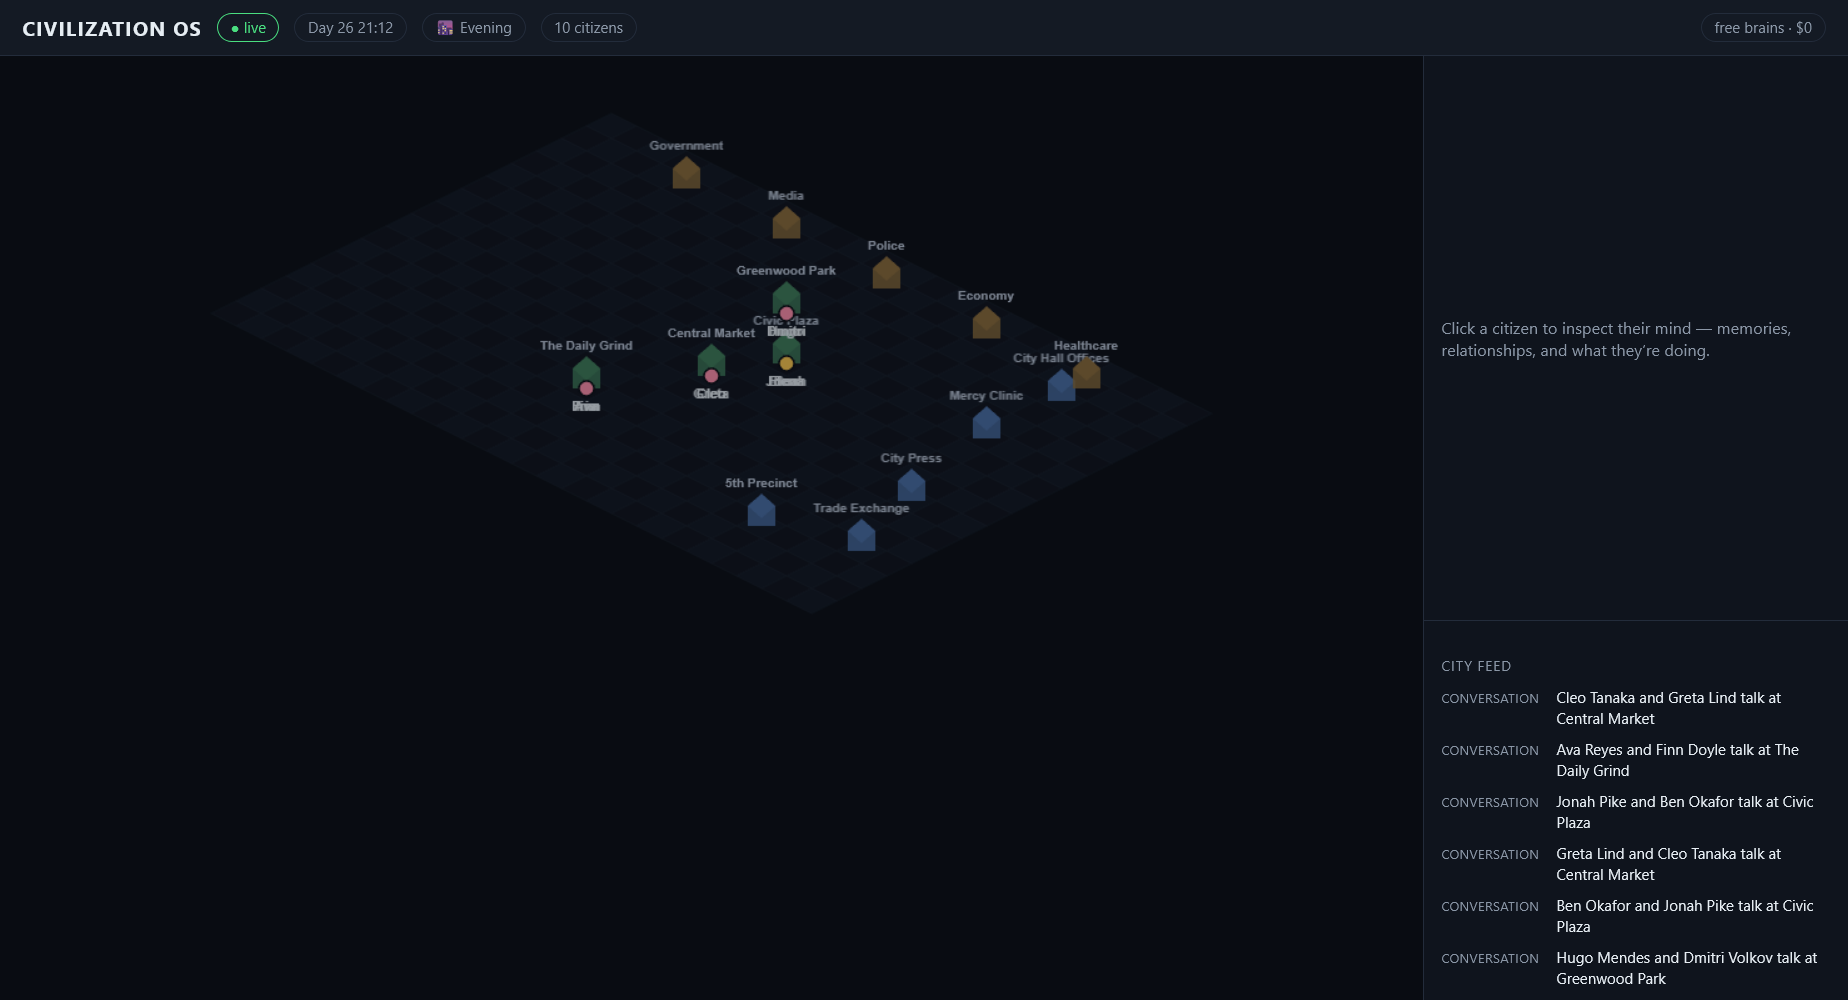
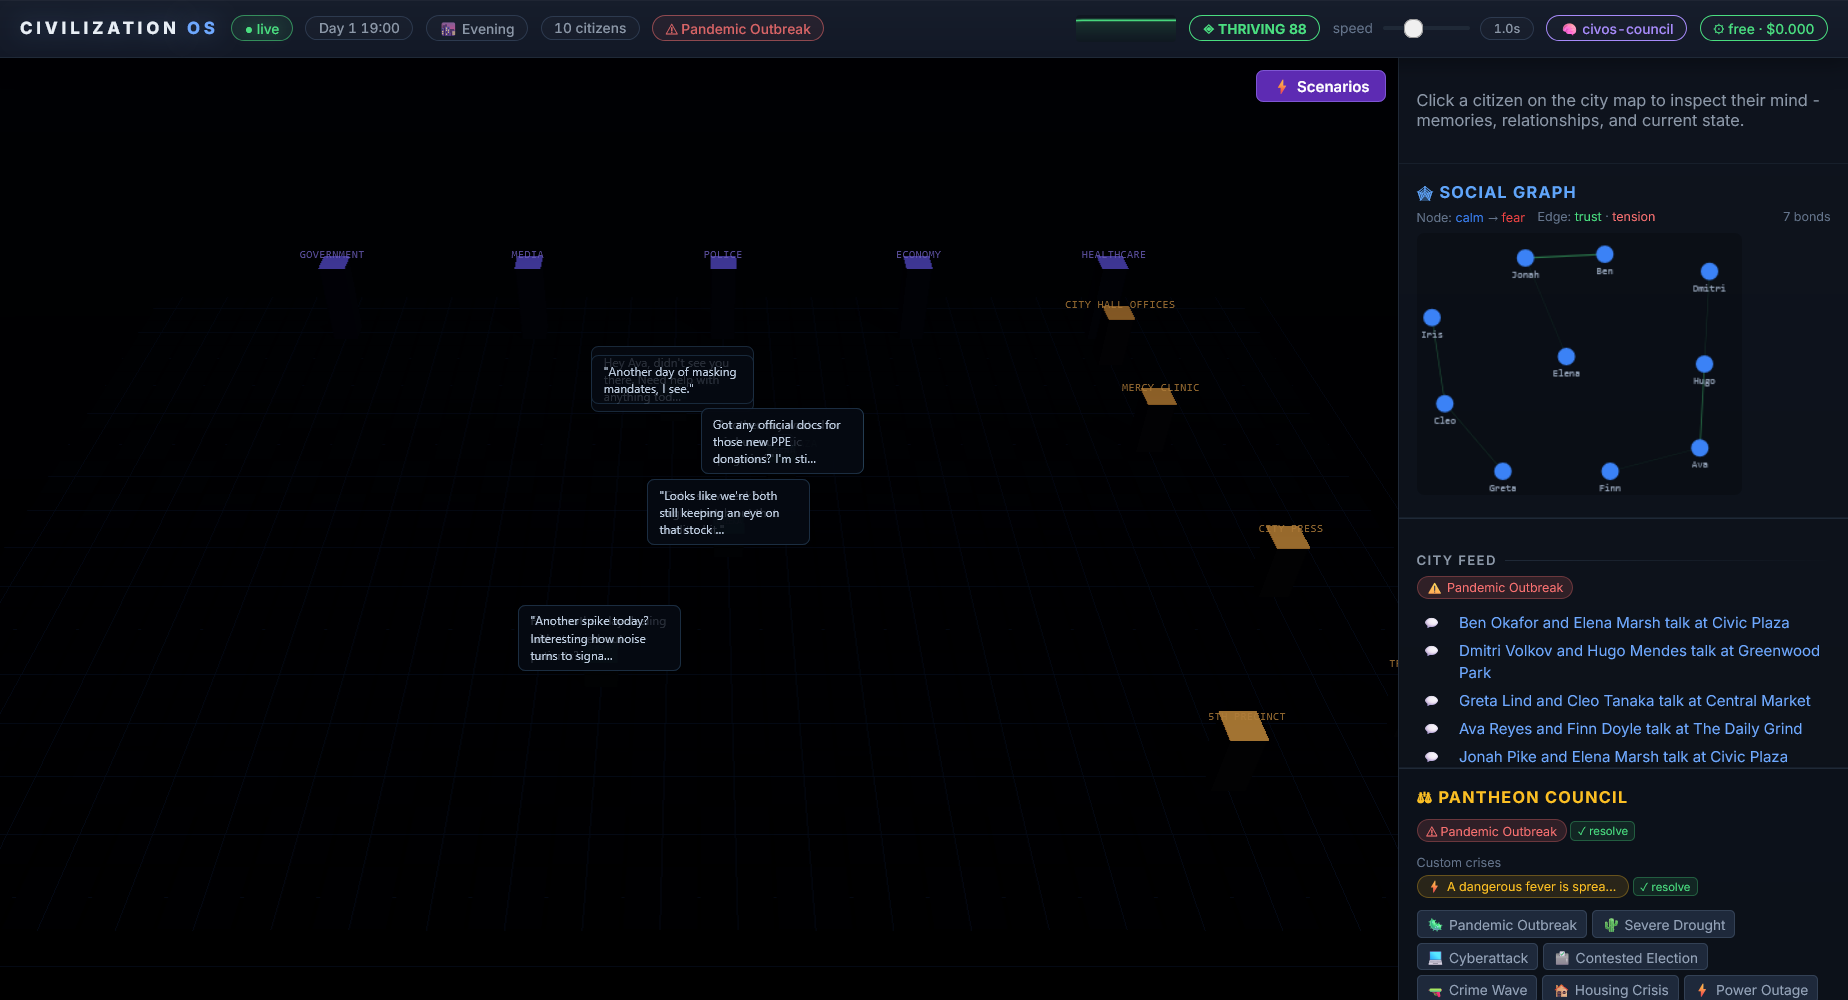
polish: refresh README screenshots to current 3D UI, purge em dashes, fix stale venv references
- docs/screenshots/city.png now shows the live Three.js city during a pandemic
  (old capture was the retired PixiJS 2D view); new council-rewind.png captures
  two live council verdicts in the Story Rewind
- em dashes replaced across remaining UI copy and HOW_TO_RUN.md
- HOW_TO_RUN.md venv path matches the README's .venv convention

diff --git a/web/src/panels/CouncilChamber.tsx b/web/src/panels/CouncilChamber.tsx
@@ -171,7 +171,7 @@ export default function CouncilChamber() {
   const liveId = activeDebateId && !isActiveComplete ? activeDebateId : null;
   const liveTurns = liveId ? activeTurns : [];
 
-  // Completed debates — newest first (Object.keys insertion order)
+  // Completed debates - newest first (Object.keys insertion order)
   const allDebateIds = Object.keys(debates);
   const completedIds = [...allDebateIds]
     .filter((id) => debates[id].some((t) => t.is_final))
@@ -421,7 +421,7 @@ export default function CouncilChamber() {
         {error && <div style={{ fontSize: 11, color: "#f87171" }}>Error: {error}</div>}
       </div>
 
-      {/* Live debate — expanded, auto-scrolls */}
+      {/* Live debate - expanded, auto-scrolls */}
       {liveId ? (
         <div style={{ maxHeight: 280, overflowY: "auto" }}>
           <div style={{ fontSize: 10, color: "#64748b", marginBottom: 8 }}>
@@ -436,7 +436,7 @@ export default function CouncilChamber() {
         </div>
       ) : null}
 
-      {/* Latest completed debate — collapsed card, click to expand */}
+      {/* Latest completed debate - collapsed card, click to expand */}
       {latestCompletedId && (
         <CompletedDebateCard
           turns={debates[latestCompletedId]}
@@ -447,7 +447,7 @@ export default function CouncilChamber() {
         />
       )}
 
-      {/* Older debates — hidden behind accordion */}
+      {/* Older debates - hidden behind accordion */}
       {olderIds.length > 0 && (
         <div>
           <button

diff --git a/web/src/components/Onboarding.tsx b/web/src/components/Onboarding.tsx
@@ -3,7 +3,7 @@ import { useState } from "react";
 const STEPS = [
   {
     title: "Welcome to CivilizationOS",
-    body: "A living city of 10 AI citizens governed by 5 institutional councils. Watch society evolve — or break it yourself by injecting crises.",
+    body: "A living city of 10 AI citizens governed by 5 institutional councils. Watch society evolve - or break it yourself by injecting crises.",
     icon: "🏙",
   },
   {
@@ -13,12 +13,12 @@ const STEPS = [
   },
   {
     title: "The PANTHEON Council",
-    body: "Scroll the right sidebar to ⚖ PANTHEON COUNCIL. Pick a crisis preset (Pandemic, Drought, etc.) and click Inject. Five AI specialists — Historian, Strategist, Skeptic, Predictor, Synthesizer — debate live.",
+    body: "Scroll the right sidebar to ⚖ PANTHEON COUNCIL. Pick a crisis preset (Pandemic, Drought, etc.) and click Inject. Five AI specialists - Historian, Strategist, Skeptic, Predictor, Synthesizer - debate live.",
     icon: "⚖",
   },
   {
     title: "TCMF: Novel RAG",
-    body: "Each council debate is grounded by Temporal-Causal Memory Fusion — a retrieval system that fuses citizen episodic memories with the society-wide causal graph. The Historian literally argues from precedent.",
+    body: "Each council debate is grounded by Temporal-Causal Memory Fusion - a retrieval system that fuses citizen episodic memories with the society-wide causal graph. The Historian literally argues from precedent.",
     icon: "🧠",
   },
   {

diff --git a/web/src/city/CityStage.tsx b/web/src/city/CityStage.tsx
@@ -177,7 +177,7 @@ export default function CityStage() {
         if (crisisCount > prevCrisisCount) crisisFlashUntil = performance.now() + 1000;
         prevCrisisCount = crisisCount;
 
-        // Fear heatmap — semi-transparent tile overlays at each location
+        // Fear heatmap - semi-transparent tile overlays at each location
         const fearByLoc = new Map<string, number>();
         for (const c of w.citizens) {
           if ((c.fear ?? 0) > 0.08 && c.location_id) {
@@ -216,7 +216,7 @@ export default function CityStage() {
             .stroke({ width: 1.5, color: 0x0b0e14 });
           s.ring.alpha = selected === c.id ? 1 : 0;
 
-          // Fear aura — glowing halo behind dot for frightened citizens
+          // Fear aura - glowing halo behind dot for frightened citizens
           s.fearAura.clear();
           const fear = c.fear ?? 0;
           if (fear > 0.12) {
@@ -224,7 +224,7 @@ export default function CityStage() {
             s.fearAura.circle(0, 0, 8 + fear * 10).fill({ color: auraColor, alpha: 0.15 + fear * 0.30 });
           }
           if (c.speech) {
-            // Strip "Name: " prefix — name is already shown in the label below
+            // Strip "Name: " prefix - name is already shown in the label below
             const raw = c.speech;
             const colonIdx = raw.indexOf(": ");
             const dialogue = colonIdx !== -1 ? raw.slice(colonIdx + 2) : raw;

diff --git a/web/src/panels/RelationshipGraph.tsx b/web/src/panels/RelationshipGraph.tsx
@@ -43,7 +43,7 @@ export default function RelationshipGraph() {
   const [graph, setGraph] = useState<GraphData | null>(null);
   const [tooltip, setTooltip] = useState<TooltipData | null>(null);
 
-  // Refs for RAF loop — avoids stale closure / restart on every render
+  // Refs for RAF loop - avoids stale closure / restart on every render
   const citizensRef = useRef(citizens);
   const selectedIdRef = useRef(selectedId);
   const graphRef = useRef(graph);
@@ -69,7 +69,7 @@ export default function RelationshipGraph() {
     return () => clearInterval(id);
   }, []);
 
-  // Single RAF loop — runs once on mount, reads everything from refs
+  // Single RAF loop - runs once on mount, reads everything from refs
   useEffect(() => {
     const canvas = canvasRef.current;
     if (!canvas) return;
@@ -227,7 +227,7 @@ export default function RelationshipGraph() {
 
     rafRef.current = requestAnimationFrame(frame);
     return () => cancelAnimationFrame(rafRef.current);
-  }, []); // intentionally empty — loop runs once and reads from refs
+  }, []); // intentionally empty - loop runs once and reads from refs
 
   function handleClick(e: React.MouseEvent<HTMLCanvasElement>) {
     const rect = canvasRef.current!.getBoundingClientRect();

diff --git a/web/src/panels/Inspector.tsx b/web/src/panels/Inspector.tsx
@@ -92,7 +92,7 @@ export default function Inspector() {
   if (!selectedId) {
     return (
       <div className="panel hint">
-        <p>Click a citizen on the city map to inspect their mind — memories, relationships, and current state.</p>
+        <p>Click a citizen on the city map to inspect their mind - memories, relationships, and current state.</p>
       </div>
     );
   }
@@ -149,7 +149,7 @@ export default function Inspector() {
       {fearLabel && (
         <div className="fear-bar">
           <div className="fear-label">
-            ⚠ {fearLabel}{detail.active_crisis ? ` — ${detail.active_crisis}` : ""} ({fearPct}%)
+            ⚠ {fearLabel}{detail.active_crisis ? ` - ${detail.active_crisis}` : ""} ({fearPct}%)
           </div>
           <div className="fear-track">
             <div className="fear-fill" style={{ width: `${fearPct}%` }} />

diff --git a/HOW_TO_RUN.md b/HOW_TO_RUN.md
@@ -1,4 +1,4 @@
-# CivilizationOS — How to Run & Test
+# CivilizationOS - How to Run & Test
 
 **Version 0.13.0** | Last updated: 2026-07-02
 
@@ -6,7 +6,7 @@
 
 ## Prerequisites
 
-- Python 3.12 with `.venv312` set up (`pip install -r api/requirements.txt`) — Python 3.14 has a numpy ABI mismatch, use 3.12
+- Python 3.12 with `.venv` set up (`pip install -r api/requirements.txt`) - Python 3.14 has a numpy ABI mismatch, use 3.12
 - Node.js 18+ for the frontend
 - [Ollama](https://ollama.com) running locally
 - `qwen2.5:3b-instruct` pulled: `ollama pull qwen2.5:3b-instruct`
@@ -20,7 +20,7 @@
 ```powershell
 cd C:\Users\Asus\projects\CivilizationOS
 $env:PYTHONIOENCODING="utf-8"
-& ".venv312\Scripts\uvicorn" api.main:app --reload --port 8000
+& ".venv\Scripts\uvicorn" api.main:app --reload --port 8000
 ```
 
 ### 2. Frontend (Terminal 2)
@@ -103,7 +103,7 @@ Restart the API after changing `.env`.
 
 ### Fine-Tuned Model (if civos-council active)
 - [ ] Purple 🧠 civos-council pill visible in header
-- [ ] Inject a crisis and watch 4 debate turns — they come from local Ollama (fast, no API cost)
+- [ ] Inject a crisis and watch 4 debate turns - they come from local Ollama (fast, no API cost)
 - [ ] `tier2_spent_usd` stays at 0.0 when `premium_mode: false`
 
 ### Relationship Graph
@@ -140,10 +140,10 @@ Invoke-RestMethod "http://localhost:8000/crisis" -Method POST `
 
 ## Run Tests
 
-> Note: Tests require Python 3.12 (`.venv312`). NumPy C extensions don't support Python 3.14 yet.
+> Note: Tests require Python 3.12 (`.venv`). NumPy C extensions don't support Python 3.14 yet.
 
 ```powershell
-.venv312\Scripts\python -m pytest api/tests/ -q
+.venv\Scripts\python -m pytest api/tests/ -q
 # Expected: 61 passed
 ```
 
@@ -155,10 +155,10 @@ Invoke-RestMethod "http://localhost:8000/crisis" -Method POST `
 # Fine-tuned council model
 OLLAMA_COUNCIL_MODEL=civos-council
 
-# Optional: Tier 1 — Gemini free tier
+# Optional: Tier 1 - Gemini free tier
 GEMINI_API_KEY=your_key_here
 
-# Optional: Tier 2 — Claude (requires PREMIUM_MODE=true)
+# Optional: Tier 2 - Claude (requires PREMIUM_MODE=true)
 ANTHROPIC_API_KEY=your_key_here
 PREMIUM_MODE=false
 ```
@@ -173,6 +173,6 @@ All settings default to free/local if omitted. The app runs at $0/day on Ollama 
 |---|---|
 | Purple pill not showing | Check `.env` has `OLLAMA_COUNCIL_MODEL=civos-council`, restart API |
 | `civos-council` not found by Ollama | Run `ollama create civos-council -f ml/Modelfile` (needs GGUF at `ml/unsloth.Q4_K_M.gguf`) |
-| Debate turns don't appear | WebSocket disconnected — refresh browser, check API is running |
-| `uvicorn` command not found | Use `& ".venv312\Scripts\uvicorn"` in PowerShell |
-| Tests fail with numpy error | Use the Python 3.12 virtual env (`.venv312`), not 3.14 |
+| Debate turns don't appear | WebSocket disconnected - refresh browser, check API is running |
+| `uvicorn` command not found | Use `& ".venv\Scripts\uvicorn"` in PowerShell |
+| Tests fail with numpy error | Use the Python 3.12 virtual env (`.venv`), not 3.14 |
